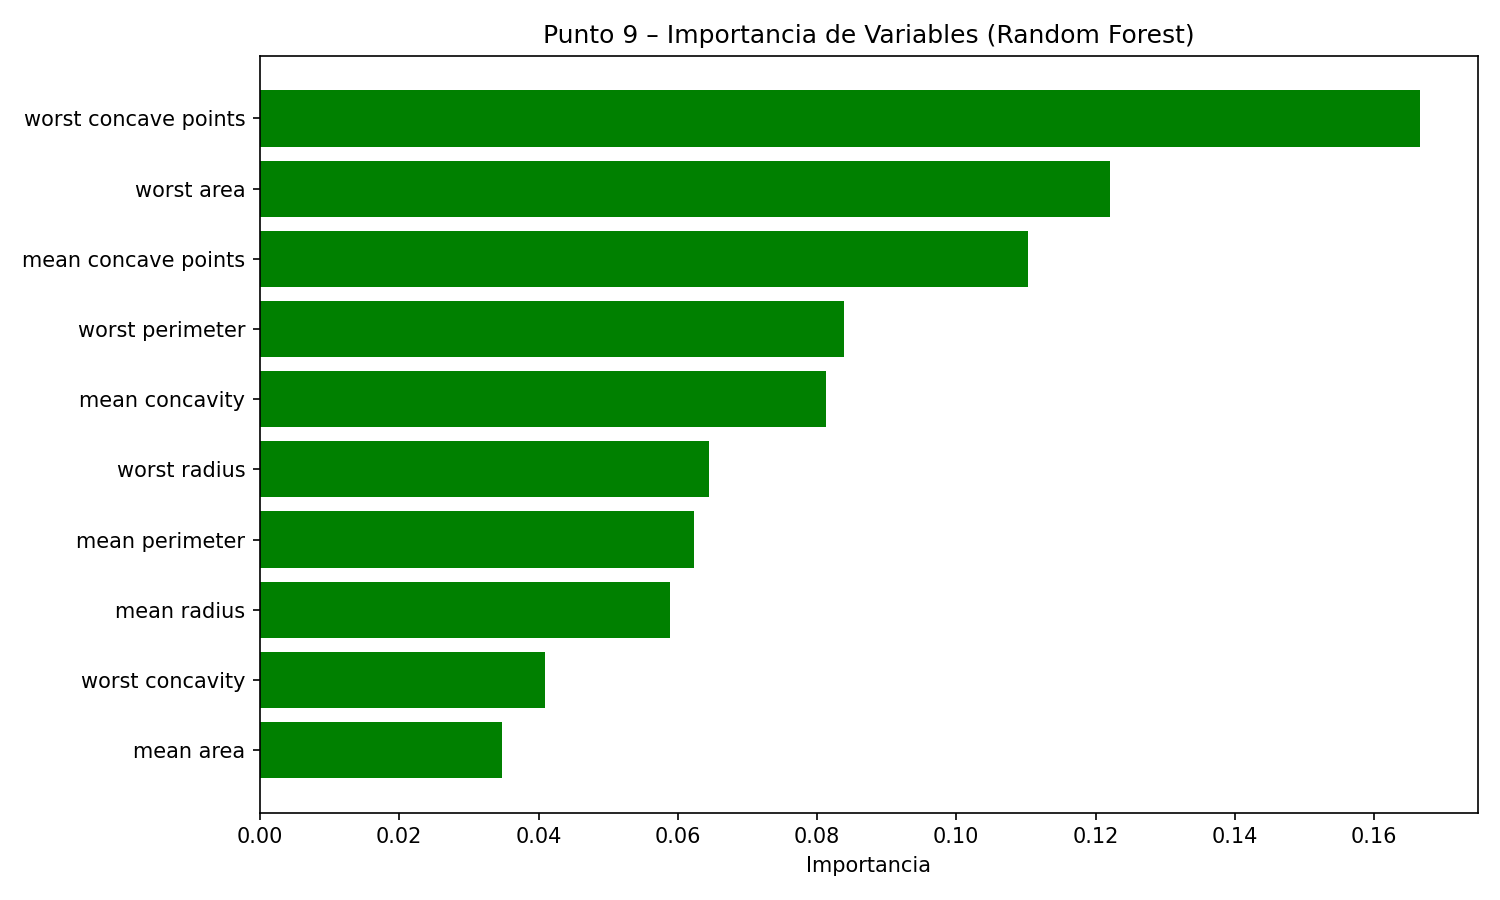
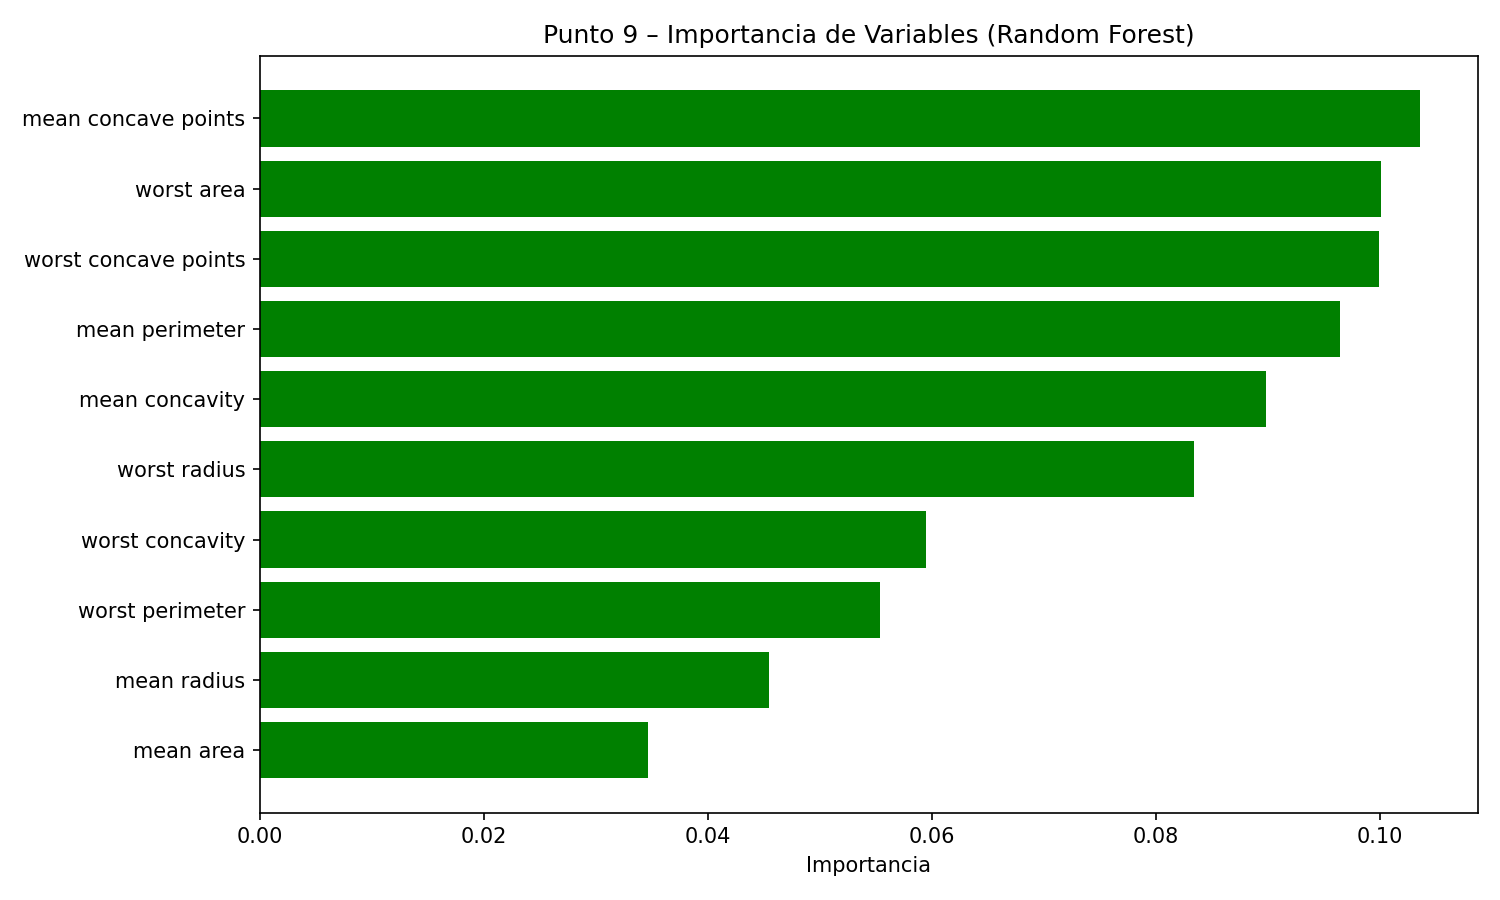
supervizado terminado(espero )

diff --git a/Inteligencia Artifical/Segundo Proyecto/supervisado.py b/Inteligencia Artifical/Segundo Proyecto/supervisado.py
@@ -1,3 +1,4 @@
+from sklearn.preprocessing import StandardScaler
 import math
 import copy
 import numpy as np
@@ -8,6 +9,7 @@ import matplotlib.pyplot as plt
 import matplotlib.patches as mpatches
 from collections import Counter
 from sklearn.tree import DecisionTreeClassifier,plot_tree, export_text #arbol de decision y ploteo
+from sklearn.neighbors import KNeighborsClassifier
 from sklearn.model_selection import train_test_split #herramienta de corte de dataset
 from sklearn.metrics import ConfusionMatrixDisplay #matriz de confusión
 from sklearn.model_selection import GridSearchCV, RandomizedSearchCV
@@ -62,47 +64,98 @@ def graficos_iniciales():
     plt.savefig("distribucion_clases2.png")
     plt.close()
     
-def estadisticos_descriptivos():
-    
-    estadisticos = x.describe().T
-    print(estadisticos.head(10)) 
-    estadisticos.to_csv("estadisticos_descriptivos.csv")
-    
 def boxplots(df):
-        # Asumiendo que tenés tu 'df_completo' con la columna 'diagnostic' ('Benign' / 'Malignant')
+    print("\n=== GENERANDO BOXPLOTS AUTOMÁTICOS BASADOS EN TOP 10 DE CORRELACIÓN ===")
+    
+    # 1. Creamos una copia para no alterar el DataFrame original y preparamos las etiquetas
+    df_temp = copy.deepcopy(df)
+    df_temp['Diagnóstico'] = df_temp['target'].map({0: 'Maligno (0)', 1: 'Benigno (1)'})
+    
+    # 2. CALCULO MATEMÁTICO DE SELECCIÓN (Punto 3 y 4)
+    # Calculamos la correlación absoluta con el target y sacamos el Top 10 (excluyendo al 'target' mismo)
+    matriz_corr = df_temp.drop(columns=['Diagnóstico']).corr()
+    top_10_atributos = matriz_corr['target'].abs().sort_values(ascending=False).iloc[1:11].index.tolist()
+    
+    print(f"Atributos seleccionados automáticamente por cálculo: {top_10_atributos}")
+    
+    # 3. SEPARACIÓN AUTOMÁTICA POR ESCALAS
+    # Clasificamos las variables dinámicamente mirando el valor máximo absoluto que alcanzan en los datos
+    atributos_micro = []  # Para los que se mueven entre 0 y 1 (como concave points)
+    atributos_media = []  # Para rangos intermedios (como los radios, de 5 a 50)
+    atributos_macro = []  # Para valores gigantes (como perímetros y áreas, > 50)
+    
+    for col in top_10_atributos:
+        val_max = df_temp[col].abs().max()
+        if val_max <= 1.0:
+            atributos_micro.append(col)
+        elif val_max <= 50.0:
+            atributos_media.append(col)
+        else:
+            atributos_macro.append(col)
+            
+    # 4. GENERACIÓN DE LOS GRÁFICOS DINÁMICOS
+    
+    # --- Gráfico 1: Escala Micro (Decimales) ---
+    if atributos_micro:
+        fig, ax = plt.subplots(figsize=(10, 6))
+        df_temp.boxplot(column=atributos_micro, by='Diagnóstico', ax=ax)
+        ax.set_title('Top Correlación - Características de Escala Micro (0 a 1)', fontsize=12, fontweight='bold')
+        ax.set_ylabel('Valor Decimal')
+        plt.suptitle('')
+        plt.tight_layout()
+        plt.savefig('boxplot_auto_micro.png', dpi=300)
+        plt.close()
+        print("-> 'boxplot_auto_micro.png' generado.")
 
-    # Gráfico 1: Radio y Textura (Escala similar)
-    fig, ax = plt.subplots(figsize=(8, 5))
-    df.boxplot(column=['mean radius', 'mean texture'], by='target', ax=ax)
-    ax.set_title('Distribución de Radio y Textura Medios')
-    plt.suptitle('') # Quita el título automático molesto de Pandas
-    plt.tight_layout()
-    plt.savefig('boxplot_radio_textura.png', dpi=300)
-    plt.close()
+    # --- Gráfico 2: Escala Media (Radios / Texturas intermedias) ---
+    if atributos_media:
+        fig, ax = plt.subplots(figsize=(8, 5))
+        df_temp.boxplot(column=atributos_media, by='Diagnóstico', ax=ax)
+        ax.set_title('Top Correlación - Características de Escala Media', fontsize=12, fontweight='bold')
+        ax.set_ylabel('Unidades de Medida')
+        plt.suptitle('')
+        plt.tight_layout()
+        plt.savefig('boxplot_auto_media.png', dpi=300)
+        plt.close()
+        print("-> 'boxplot_auto_media.png' generado.")
 
-    # Gráfico 2: Área (Escala gigante - Va sola)
-    fig, ax = plt.subplots(figsize=(6, 5))
-    df.boxplot(column=['mean area'], by='target', ax=ax)
-    ax.set_title('Distribución del Área Media')
-    plt.suptitle('')
-    plt.tight_layout()
-    plt.savefig('boxplot_area.png', dpi=300)
-    plt.close()
+    # --- Gráfico 3: Escala Macro (Áreas y Perímetros separados dinámicamente para no aplastarse) ---
+    if atributos_macro:
+        # Si hay más de un atributo macro, usamos subplots para que cada uno mantenga su legibilidad
+        num_macro = len(atributos_macro)
+        fig, ejes = plt.subplots(1, num_macro, figsize=(6 * num_macro, 6))
+        
+        # Si es solo 1 atributo macro, 'ejes' no es una lista, lo convertimos para poder iterar tranquilamente
+        if num_macro == 1:
+            ejes = [ejes]
+            
+        for idx, col in enumerate(atributos_macro):
+            df_temp.boxplot(column=[col], by='Diagnóstico', ax=ejes[idx])
+            ejes[idx].set_title(f'{col}')
+            ejes[idx].set_ylabel('Escala Absoluta')
+            
+        plt.suptitle('Top Correlación - Características de Escala Macro (Magnitudes Grandes)', fontsize=14, fontweight='bold')
+        plt.tight_layout()
+        plt.savefig('boxplot_auto_macro.png', dpi=300)
+        plt.close()
+        print("-> 'boxplot_auto_macro.png' generado.")
 
-    # Gráfico 3: Forma e Irregularidades (Escala pequeña entre 0 y 1)
-    fig, ax = plt.subplots(figsize=(8, 5))
-    df.boxplot(column=['mean compactness', 'mean concavity'], by='target', ax=ax)
-    ax.set_title('Distribución de Compacidad y Concavidad Medias')
-    plt.suptitle('')
-    plt.tight_layout()
-    plt.savefig('boxplot_forma_irregular.png', dpi=300)
-    plt.close()
+def armardf_estandarizado():
+    print("estandarizado")
+    scaler = StandardScaler() 
+    x_esc = scaler.fit_transform(copy.deepcopy(x))
+    df_estandarizado = pd.DataFrame(x_esc, columns=x.columns)
+    df_estandarizado['target'] = copy.deepcopy(y)
+    print(df_estandarizado.isnull().sum().sum())  
+    print(df_estandarizado)
+    return df_estandarizado
 
 def armar_df():
-    df = x.copy()
-    df['target'] = y
+    print("normal")
+    df = copy.deepcopy(x)
+    df['target'] = copy.deepcopy(y)
     print(df.isnull().sum().sum())  
-    print(df.dtypes)
+    print(df)
     return df
 
 def split(df):
@@ -117,26 +170,28 @@ def modelos():
     modelo_arbol     = DecisionTreeClassifier(random_state=42)
     modelo_bosque    = RandomForestClassifier(random_state=42)
     modelo_red       = MLPClassifier(max_iter=1000, random_state=42)
+    modelo_knn       = KNeighborsClassifier(n_neighbors=5)
     modelos = {
         "Regresion Logistica": modelo_logistica,
         "Arbol de Decision": modelo_arbol,
         "Random Forest": modelo_bosque,
-        "Red Neuronal (MLP)": modelo_red
+        "Red Neuronal (MLP)": modelo_red,
+        "KNN": modelo_knn
     }
     return modelos
 
 #con los datos de entrenamiento podemos sacar feature_importances(pto9), para saber variables determinantes
-def entrenamiento(modelos,x_train,y_train):
-    modelos_entrenados=copy.deepcopy(modelos)
-    for nombre, modelo in modelos_entrenados.items():
+def entrenamiento(modelos, x_train, y_train):
+    modelo_entrenar=copy.deepcopy(modelos)
+    for nombre, modelo in modelo_entrenar.items():
         modelo.fit(x_train, y_train)
-        modelos_entrenados[nombre]=modelo
+        modelo_entrenar[nombre]=modelo
         print(f"Modelo {nombre} entrenado exitosamente")
         
-    return modelos_entrenados
+    return modelo_entrenar
 
 #con esto hacemos pto6,7 y 9
-def tests(modelos_entrenados,x_test,y_test):
+def tests(modelos_entrenados,x_test,y_test, opcion):
     resultados = []
     mejor_f1 = 0
     mejor_nombre = ""
@@ -160,10 +215,10 @@ def tests(modelos_entrenados,x_test,y_test):
             cmap=plt.cm.Blues,
             ax=ax 
         )
-        ax.set_title(f"Matriz de Confusion - {nombre}", fontsize=12, fontweight='bold')
+        ax.set_title(f"Matriz de Confusion - {nombre}-{opcion}", fontsize=12, fontweight='bold')
         ax.set_xlabel("Predicción")
         ax.set_ylabel("Real")
-        nombre_archivo = f"matriz_{nombre.replace(' ', '_').lower()}.png"
+        nombre_archivo = f"matriz_{nombre.replace(' ', '_').lower()}-{opcion}.png"
         plt.tight_layout()
         plt.savefig(nombre_archivo, dpi=300)
         plt.close()
@@ -188,18 +243,18 @@ def tests(modelos_entrenados,x_test,y_test):
     #pto7 se imprime mejor modelo
     print(f"\nMejor modelo: {mejor_nombre} (F1={mejor_f1:.4f})")
     disp = ConfusionMatrixDisplay.from_predictions( y_test, mejor_preds, display_labels=["Maligno (0)", "Benigno (1)"], cmap="Blues")
-    disp.ax_.set_title(f"Matriz de Confusion - {mejor_nombre}", fontsize=12, fontweight='bold')
+    disp.ax_.set_title(f"Matriz de Confusion - {mejor_nombre}-{opcion}", fontsize=12, fontweight='bold')
     disp.ax_.set_xlabel("Predicción")
     disp.ax_.set_ylabel("Real")
-    plt.savefig("punto7_matriz_confusion.png", bbox_inches='tight', dpi=150)
+    plt.savefig(f"punto7_matriz_confusion-{opcion}.png", bbox_inches='tight', dpi=150)
     plt.close()
     
     #pto9
-    variables_importantes(modelo_bosque)
+    
     # dataframe con comparativa pto6
     return pd.DataFrame(resultados), resultados
 
-def grafica_resultados(resultados):
+def grafica_resultados(resultados,opcion):
     
     print("\n=== GENERANDO GRÁFICO COMPARATIVO GENERAL (PUNTO 6) ===")
     metricas_nombres = ['Accuracy', 'Precision', 'Recall', 'F1-Score']
@@ -230,19 +285,20 @@ def grafica_resultados(resultados):
                         ha='center', va='bottom', fontsize=8, fontweight='bold')
 
     # Ajustes estéticos finales del gráfico
-    ax.set_title('Comparativa General de Rendimiento - Modelos Originales', fontsize=14, fontweight='bold')
+    ax.set_title(f'Comparativa General de Rendimiento - Modelos {opcion}', fontsize=14, fontweight='bold')
     ax.set_ylabel('Puntaje (Score)', fontsize=12)
     ax.set_xticks(posiciones)
     ax.set_xticklabels(metricas_nombres, fontsize=11)
     ax.set_ylim(0, 1.15) # Espacio para las etiquetas y la leyenda
-    ax.legend(loc='upper right', shadow=True)
+    #ax.legend(loc='upper right', shadow=True)
+    ax.legend(bbox_to_anchor=(1.05, 1), loc='upper left')
     ax.grid(axis='y', linestyle='--', alpha=0.3)
     
     plt.tight_layout()
-    plt.savefig('comparativa_general_modelos.png', dpi=300)
+    plt.savefig(f'comparativa_general_modelos_{opcion}.png', dpi=300)
     plt.close()
     
-    print("¡Gráfico 'comparativa_general_modelos.png' generado con éxito!")
+    print(f"¡Gráfico 'comparativa_general_modelos_{opcion}.png' generado con éxito!")
 
 def optimizar_random_forest(x_train, y_train):
     print("\n=== OPTIMIZANDO HIPERPARÁMETROS CON GRIDSEARCHCV ===")
@@ -254,7 +310,7 @@ def optimizar_random_forest(x_train, y_train):
     # Probaremos combinaciones de cantidad de árboles, profundidad y criterio de división
     param_grid = {
         'n_estimators': [50, 100, 200],
-        'max_depth': [None, 5, 10],
+        'max_depth': [None,3, 5, 10],
         'criterion': ['gini', 'entropy'],
         'max_features': ['sqrt','log2',None]
         }
@@ -333,7 +389,7 @@ def comparativa_bosques(bosque_original, bosque_optimizado, y_test):
     
     print(f"¡Gráfico guardado como '{nombre_archivo}'!")
 
-def variables_importantes(modelo_bosque):
+def variables_importantes(modelo_bosque, x_test):
     importancias = modelo_bosque.feature_importances_
     df_imp = pd.DataFrame({
         "Variable": x_test.columns,
@@ -370,30 +426,56 @@ def arbol_reducido(x_train, y_train, x_test, y_test):
     plt.tight_layout()
     plt.savefig("punto10_arbol_reducido.png", bbox_inches='tight', dpi=150)
     plt.close()
-
-
+    
 if __name__ == "__main__":
-    #PTO1Y2
+    # PTO 1 y 2
     graficos_iniciales()
-    #PTO3
-    estadisticos_descriptivos()
-    #PTO4
-    df = armar_df()
-    boxplots(df)
-    x_train,x_test,y_train,y_test= split(df)
-    #PTO5
-    modelos_entrenados = entrenamiento(modelos(),x_train,y_train)
-    #PTO6,7Y9
-    df_resultados,resultados = tests(modelos_entrenados,x_test,y_test)
-    grafica_resultados(resultados)
-    #PTO8
-    mejor_bosque_tuneado = optimizar_random_forest(x_train, y_train)
-    predicciones_tuneadas = mejor_bosque_tuneado.predict(x_test)
-    for i in resultados:
+    # PTO 3
+    
+    # ==========================================
+    # CAMINO 1: EVALUACIÓN NORMAL
+    # ==========================================
+    df_normal = armar_df()
+    boxplots(df_normal) # Hacemos los boxplots con los datos reales
+    x_train_norm, x_test_norm, y_train_norm, y_test_norm = split(df_normal)
+    
+    modelos_base_norm = modelos() # Instanciamos modelos limpios
+    modelonormal_entrenados = entrenamiento(modelos_base_norm, x_train_norm, y_train_norm)
+    
+    df_resultadosnormal, resultadosnormal = tests(modelonormal_entrenados, x_test_norm, y_test_norm, "Normal")
+    grafica_resultados(resultadosnormal, "Normal")
+    
+    # ==========================================
+    # CAMINO 2: EVALUACIÓN ESTANDARIZADA (La que te pedía KNN y Red Neuronal)
+    # ==========================================
+    df_estandarizado = armardf_estandarizado()
+    x_train_std, x_test_std, y_train_std, y_test_std = split(df_estandarizado)
+    
+    modelos_base_std = modelos() # Instanciamos modelos limpios nuevos para el escalado
+    modeloestandarizado_entrenados = entrenamiento(modelos_base_std, x_train_std, y_train_std)
+    
+    df_resultadosestandarizado, resultadosestandarizado = tests(modeloestandarizado_entrenados, x_test_std, y_test_std, "Estandarizado")
+    grafica_resultados(resultadosestandarizado, "Estandarizado")
+    
+    # ==========================================
+    # PUNTOS FINALES (8, 9 y 10) 
+    # Usamos los datos estandarizados que son los óptimos para la Red Neuronal y KNN
+    # ==========================================
+    # PTO 8: Optimización
+    mejor_bosque_tuneado = optimizar_random_forest(x_train_norm, y_train_norm)
+    predicciones_tuneadas = mejor_bosque_tuneado.predict(x_test_norm)
+    
+    # PTO 9: Variables importantes
+    variables_importantes(mejor_bosque_tuneado, x_test_norm)
+    
+    # Comparativa de bosques (buscando el original estandarizado para contrastar con el optimizado)
+    for i in resultadosnormal:
         if i["Modelo"] == "Random Forest":
-            comparativa_bosques(i, predicciones_tuneadas, y_test)
+            comparativa_bosques(i, predicciones_tuneadas, y_test_norm)
+            
     print("\nReporte de Clasificación del Modelo Optimizado:")
-    print(classification_report(y_test, predicciones_tuneadas))
-    #PTO10
-    arbol_reducido(x_train, y_train, x_test, y_test)
+    print(classification_report(y_test_norm, predicciones_tuneadas))
+    
+    # PTO 10: Árbol reducido (Se puede hacer con los datos norm o std, preferible norm para reglas legibles)
+    arbol_reducido(x_train_norm, y_train_norm, x_test_norm, y_test_norm)
     
